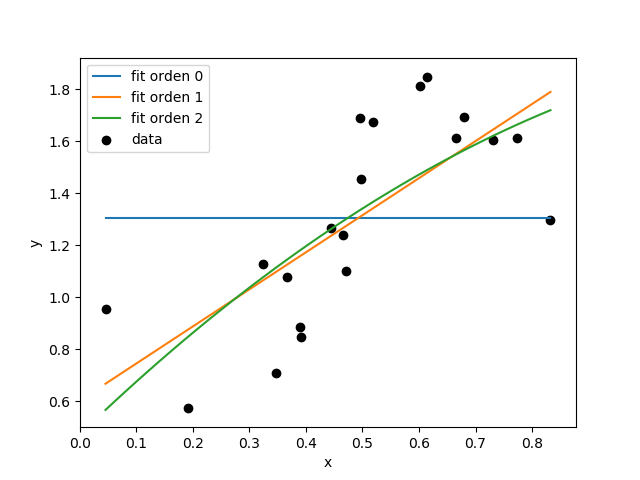
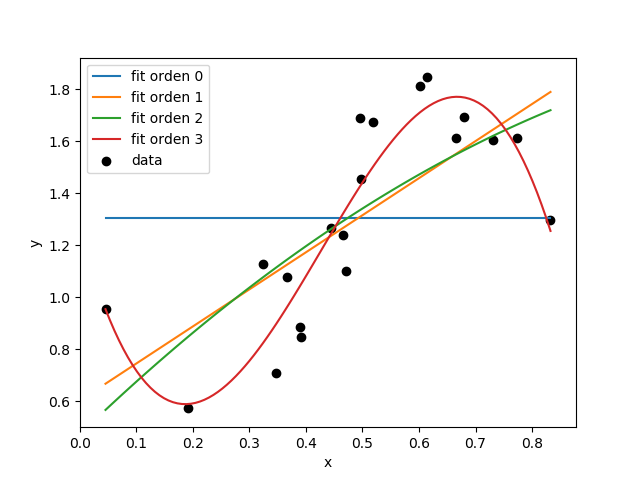
incluye orden 3

diff --git a/ejercicios/14/JaimeForero_Ejercicio14.py b/ejercicios/14/JaimeForero_Ejercicio14.py
@@ -49,7 +49,7 @@ y = data[:,1]
 # Resuelve el sistema lineal, guarda los coeficients en un diccionario
 # para los ajustes de polinomios de orden 0, 1, 2.
 c = {}
-for n in [0,1,2]:
+for n in [0,1,2,3]:
     A = crea_matriz_modelo_polinomial(x, poly_deg=n)
     A_inv = np.linalg.pinv(A) # esta ves uso la pseudo inversa
     c[n] = A_inv@y
@@ -59,7 +59,7 @@ x_model = np.linspace(x.min(), x.max(), 100)
 
 # grafica
 plt.figure()
-for n in [0, 1, 2]:
+for n in c.keys():
     y_model = poly_model(x_model, c[n])
     plt.plot(x_model, y_model, label='fit orden {}'.format(n))
 
